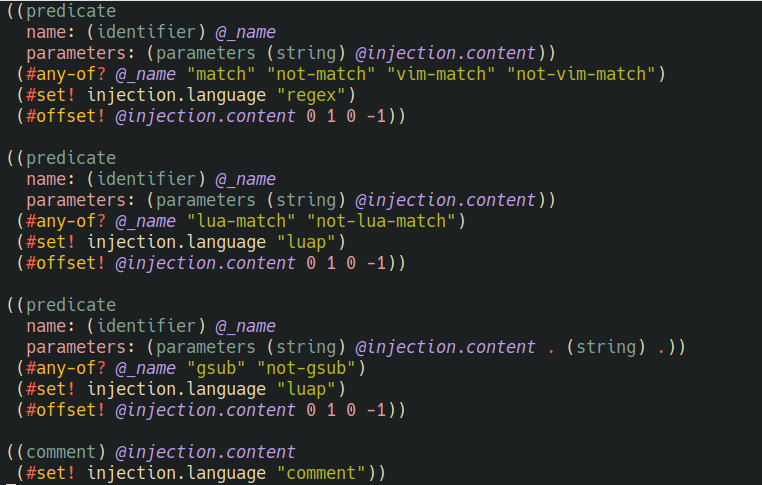
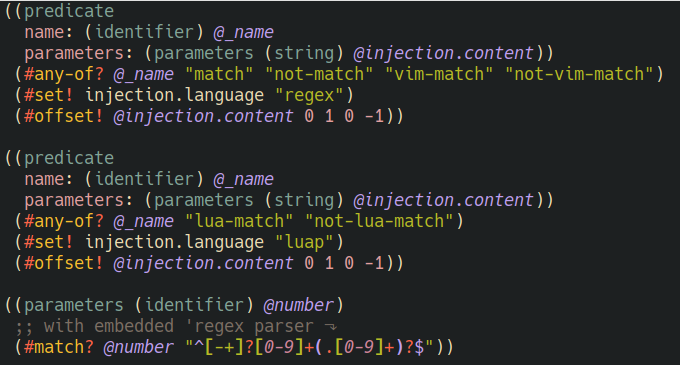
fix: embedded regex parser

Changed region(s): [[0.0, 0.0, 0.9882, 1.0], [0.7412, 0.6932, 0.8956, 0.7534]]

diff --git a/README.md b/README.md
@@ -10,6 +10,9 @@ Features:
 - font-locking
 - structural navigation with treesitter objects
 
+To use the embedded regex parser to parse regexes in `match` predicates, install
+`regex-ts` from https://github.com/nverno/regex-ts.
+
 ![example](doc/example-query.png)
 
 ## Installing
